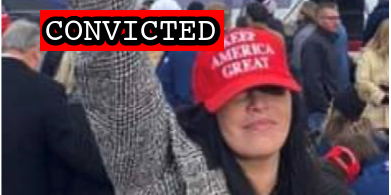
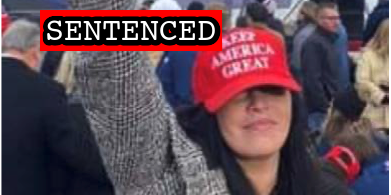
Latest sentence

Changed region(s): [[0.2455, 0.0615, 0.4604, 0.2462], [0.0921, 0.0615, 0.2148, 0.2462], [0.5524, 0.0615, 0.5831, 0.2462]]

diff --git a/docs/_suspects/annie-howell.md b/docs/_suspects/annie-howell.md
@@ -4,12 +4,12 @@ lastName: Howell
 hashtag: AnnieHowell
 aka:
 residence: Pennsylvania
-status: Convicted
+status: Sentenced
 date: 2021-03-02
 charged: 2021-03-02
 indicted: 2021-03-12
 convicted: 2021-12-02
-sentenced:
+sentenced: 2022-03-02
 dismissed:
 deceased:
 plea_hearing: 2021-12-02
@@ -34,12 +34,16 @@ published: true
 caseNumber: 1:21-cr-217
 videos:
 charges:
-- code: 18 USC § 5104(e)(2)(G)
-  title: Parading, demonstrating or picketing in a Capitol building
-  url: https://www.law.cornell.edu/uscode/text/40/5104
-  felony: false
+  - code: 18 USC § 5104(e)(2)(G)
+    title: Parading, demonstrating or picketing in a Capitol building
+    url: https://www.law.cornell.edu/uscode/text/40/5104
+    felony: false
 sentence:
+  - 60 days in local jail (to be served in 10 days at a time)
+  - 36 months probation
+  - $500 restitution
 ---
+
 - [News Report](https://whyy.org/articles/fbi-says-luzerne-county-woman-filmed-inside-capitol-on-jan-6/)
 - [Statement of Facts](https://www.justice.gov/usao-dc/case-multi-defendant/file/1453421/download)
 - [Indictment](https://www.justice.gov/usao-dc/case-multi-defendant/file/1378861/download)
